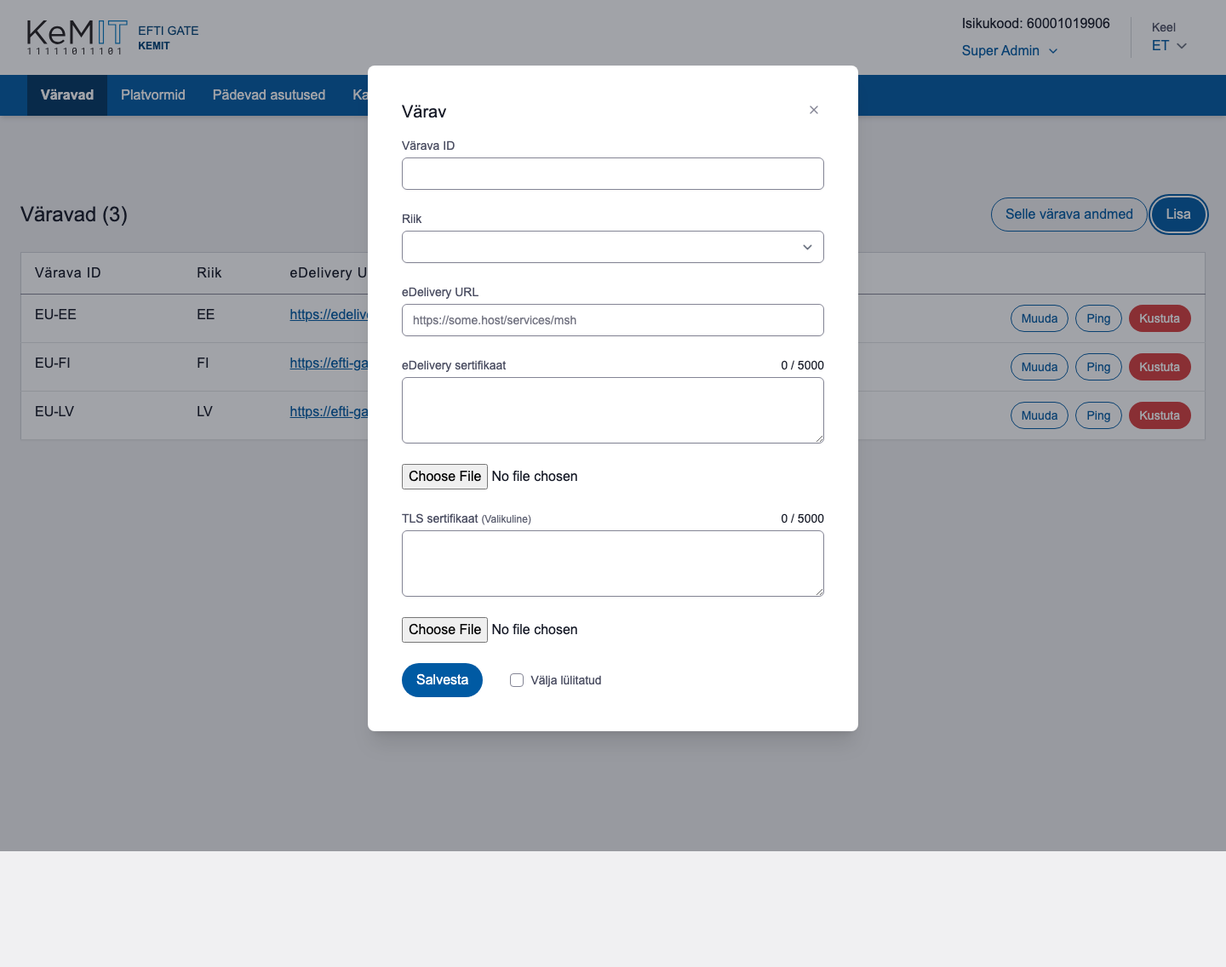
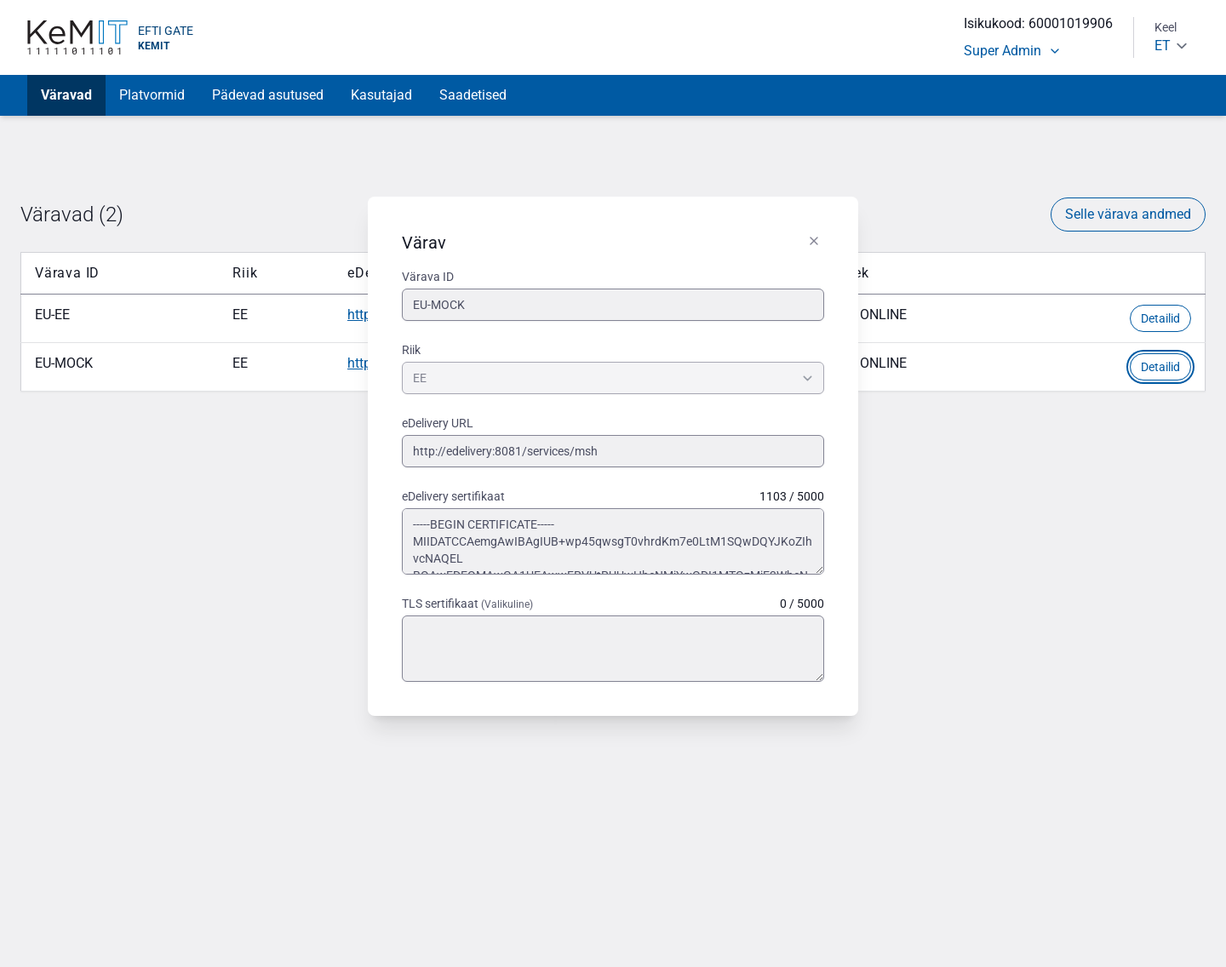
Update user guide and deployment guide for the read-only registry
- user guide: gates/platforms/authorities are read-only views of registry/;
  no add/edit/delete/ping/API-key generation; new screenshots
- deployment guide: secret management overview (§3.0: storage, delivery,
  paired values, rotation, access), Ruuter constants.ini as a mounted Secret
  file, TIM init/introspection secrets, current component versions
- AGENTS.md: constants.ini is mounted, not baked into the ruuter image

diff --git a/docs/specs/deploy/resource-and-secrets-requirements.md b/docs/specs/deploy/resource-and-secrets-requirements.md
@@ -21,10 +21,12 @@ tootmises soovita alustada "Soovituslik prod" veerust ja mõõta reaalse koormus
 |---|---|---|---|---|---|
 | `database` (PostgreSQL 18, `efti` DB) | JAH | 2.0 | 1 GiB | 2 vCPU / 2 GiB + eraldi ketas, **eraldi mõõdetud** ADR-009 jõudlustööga | Stateful — vajab PV/PVC-d ja backupit |
 | `archive-database` (PostgreSQL 18, `efti_archive` DB — saadetiste külmladu, vt issue #143/#56) | JAH | 0.5 | 512 MiB | 0.5 vCPU / 512 MiB + eraldi ketas, kasv sõltub `keepDays` retention-seadest (`purge_archived_consignments.sql`, vaikimisi 2555 päeva) | Stateful, **eraldi instants** kui `database` — vajab oma PV/PVC-d ja backupit; ligipääsetav ainult ReSql `archive` andmeallika kaudu, mitte otse |
-| `resql` (ReSql 0.3.0-alpha) | JAH | — (määramata!) | — (määramata!) | 0.5 vCPU / 512 MiB | max_connections 75 (resql.yaml) — jäta PG max_connections=100 juurde varu teistele klientidele. Kaks andmeallikat: `efti` ja `archive` |
-| `ruuter` (Ruuter 0.9.15-rc, `/efti` + `/xroad`) | JAH | 2.0 | 512 MiB | 1 vCPU / 512 MiB (koormustestitud, vt performance-dok) | — |
+| `resql` (ReSql 0.4.3-alpha) | JAH | — (määramata!) | — (määramata!) | 0.5 vCPU / 512 MiB | max_connections 75 (resql.yaml) — jäta PG max_connections=100 juurde varu teistele klientidele. Kaks andmeallikat: `efti` ja `archive` |
+| `ruuter` (Ruuter 0.12.1-rc, `/efti` + `/xroad` + `/ops`) | JAH | 2.0 | 512 MiB | 1 vCPU / 512 MiB (koormustestitud, vt performance-dok) | — |
 | `ruuter-xroad-mock` (avalik X-Roadi arendaja-mokk, `/developer/**`) | VALIKULINE | 0.25 | 128 MiB | 0.25 vCPU / 128 MiB | Standalone, andmebaasita — vt `docs/developer/x_road_developer_mock.md`. Jäta välja, kui väliseid platvormiarendajaid ei teenindata. |
-| `tim` (Token & Identity Manager 0.3.0-alpha) | JAH | — | — | 0.5 vCPU / 256 MiB | Oma PostgreSQL DB (vt §3) |
+| `tim-init` (ühekordne ettevalmistus) | JAH, ühekordne | — | — | 0.1 vCPU / 64 MiB | Init-container enne `tim`-i: CA-bundle ja (dev-is) JWT võtme genereerimine — vt §3.3 |
+| `registry` (nginx, staatiline register) | JAH | — | — | 0.1 vCPU / 64 MiB | Image sisaldab registrit (ADR-011), avaldatud pordita — vt §3.4 |
+| `tim` (Token & Identity Manager 0.4.1-alpha, distroless) | JAH | — | — | 0.5 vCPU / 256 MiB | Oma PostgreSQL DB (vt §3) |
 | `tim-database` (PostgreSQL 18, `tim` DB) | JAH | — | — | 0.5 vCPU / 512 MiB | Stateful, eraldi instants(dev)/eraldi skeem-või-instants (prod, vali) |
 | `ui` (nginx + Vite/Svelte build) | JAH | — | — | 0.25 vCPU / 128 MiB | Staatiline sisu, väga kerge |
 | `edelivery` (Kotlin/klite, AS4 G2G) | JAH | — | 512 MiB | 0.5 vCPU / 512 MiB | — |
@@ -47,8 +49,11 @@ väärtust:
 
 | Muutuja | Kirjeldus | Dev väärtus |
 |---|---|---|
-| `OWN_GATE_ID` | Selle värava X-Road/eFTI identifikaator | `EU-EE` |
-| `RUUTER_URL`, `RESQL_URL`, `EDELIVERY_URL`, `XML_MAPPER_URL`, `TIM_URL` | Teenustevahelised URL-id (K8s-is Service DNS-nimed) | `http://<service>:<port>` |
+| `OWN_GATE_ID` | Selle värava eFTI identifikaator. Peab olema sama `constants.ini`-s (Ruuter) ja `edelivery`/`xml-mapper` env-is, ning võrduma `registry/gates/<OWN_GATE_ID>.yml` failinime ja AS4 võtmehoidla aliasega (§3.5) | `EU-EE` |
+| `RUUTER_URL`, `RESQL_URL`, `REGISTRY_URL`, `EDELIVERY_URL`, `XML_MAPPER_URL`, `TIM_URL` | Teenustevahelised URL-id (K8s-is Service DNS-nimed) | `http://<service>:<port>` |
+| `REGISTRY_REFRESH_SECONDS` | Kui tihti `edelivery` registrit uuesti loeb | `60` |
+| `DEV_LOGIN_ENABLED` (`constants.ini`) | TARA-vaba arendus-sisselogimine | `true` — **prod-is peab olema `false`** |
+| TIM `public_base_url`, `allowed_redirect_uris` (`docker/tim/tim.yaml`) | TIM-i avalik aadress ja lubatud tagasisuunamise URL-id | `http://localhost:8000/...` — **keskkonnapõhine, prod-domeen tuleb lisada** |
 | `LOGGER_CLASS` | Kotlin-teenuste logimistase/formaat | määramata (vaikimisi) |
 | `VITE_USE_PROD_TARA_URL` | UI build-arg, kas UI viitab reaalsele TARA-le | `true` (image-build juba seab) |
 
@@ -58,6 +63,53 @@ väärtust:
 
 Iga rida: **nimi** → **kes tarbib** (konteiner/env muutuja) → **otstarve** → **dev väärtus (ÄRA
 kasuta prod-is)** → **paigalduse märkus**.
+
+### 3.0 Saladuste haldamise põhimõtted
+
+**Üks allikas, üks tarneviis.** Iga saladus elab keskkonna saladuste hoidlas (AWS SSM Parameter
+Store, prefiks `/efti/<env>/…`; alternatiivina Vault) ja jõuab konteinerisse **ainult**
+`ExternalSecret` → Kubernetes Secret kaudu (§7). Saladust ei panda Helm `values.yaml`-i, Git-i,
+CI-muutujasse ega image'isse. Ainus teadlik erand on platvormide API võtmed registris (§3.4, ADR-011 §5).
+
+**Kolm tarneviisi** — vali iga saladuse jaoks see, mida tarbija oskab lugeda:
+
+| Tarneviis | Saladused | Mida muutmine nõuab |
+|---|---|---|
+| **Env muutuja** (`secretKeyRef`) | `POSTGRES_PASSWORD`, `RESQL_*_PASSWORD`, `LIQUIBASE_COMMAND_PASSWORD`, `AUDIT_SALT`, `TIM_DATABASE_URL`, `TIM_ADMIN_TOKEN`, `TIM_INTROSPECT_RUUTER_SECRET`, `TIM_TARA_CLIENT_SECRET`, `KEYSTORE_PASSWORD`, `INTERNAL_SERVICE_TOKEN` (Kotlin-teenused) | Podi taaskäivitus |
+| **Fail Secretist** (`volumeMount`) | Ruuteri `constants.ini` (§3.2), TIM JWT võti (§3.3), AS4 `own.p12` (§3.5) | Podi taaskäivitus (Ruuter loeb `constants.ini` ainult käivitusel) |
+| **Image'i sees** | Platvormide `apiKey` (`registry/`, §3.4) | `registry` image'i uus build + paigaldus |
+
+**Paarid, mis peavad kokku sobima.** Mitu saladust on kahes kohas korraga — muuda alati mõlemad
+samas paigalduses, muidu katkeb ühendus:
+
+| Väärtus | Kohad |
+|---|---|
+| `efti` DB parool | `database` `POSTGRES_PASSWORD` = `RESQL_EFTI_PASSWORD` = Liquibase parool |
+| `efti_archive` DB parool | `archive-database` `POSTGRES_PASSWORD` = `RESQL_ARCHIVE_PASSWORD` |
+| `TIM_ADMIN_TOKEN` | `tim` env = Ruuteri `constants.ini` |
+| `INTERNAL_SERVICE_TOKEN` | Ruuteri `constants.ini` = `edelivery` env = `xml-mapper` env |
+| `ARCHIVE_OPS_TOKEN` | Ruuteri `constants.ini` = CronManageri `BEARER_OPS_TOKEN` |
+| AS4 sert | `own.p12` (§3.5) = `registry/gates/<OWN_GATE_ID>.yml` `eDeliveryCert` = partnerite registrid |
+
+**Rotatsioon.** Üldreegel: genereeri uus väärtus → kirjuta SSM-i → lase ExternalSecretil Secret
+uuendada (või `kubectl annotate externalsecret … force-sync=$(date +%s)`) → taaskäivita kõik
+tarbijad (`kubectl rollout restart`). Erijuhud:
+
+- **Andmebaasi parool**: muuda esmalt PostgreSQL-is (`ALTER ROLE … PASSWORD`), siis SSM-is, siis
+  taaskäivita `resql` (ja järgmine Liquibase'i jooks kasutab uut). Vahepeal ReSql uusi ühendusi ei loo.
+- **`AUDIT_SALT`**: **ära vaheta** olemasolevas keskkonnas — `audit_log`-i isikukoodide räsid ei ole
+  siis enam vanadega võrreldavad. Vahetus = teadlik otsus koos auditiandmete käsitlusega.
+- **TIM JWT võti**: vahetus logib kõik kasutajad välja (vanad JWT-d ei valideeru).
+- **AS4 võti**: koordineeritud vahetus partneritega — §3.5 "Rotatsioon".
+- **Platvormi API võti**: registrifaili muudatus + `registry` image'i paigaldus; uus võti antakse
+  platvormile turvalist kanalit pidi (§3.4).
+- **Lekke korral**: vaheta kohe, kontrolli `audit_log`-i ja Ruuteri/edelivery logisid lekkeaja kohta;
+  `INTERNAL_SERVICE_TOKEN`-i ja `ARCHIVE_OPS_TOKEN`-i leke tähendab ka võrgupiiride (§6) ülevaatust.
+
+**Ligipääs.** SSM-i `/efti/<env>/` loe- ja kirjutusõigus ainult infra/admin rollil;
+`ExternalSecret`-i teenusekonto saab ainult lugeda. Kubernetes Secretite lugemisõigus ainult
+nimeruumi administraatoril. Kuna `registry` image sisaldab API võtmeid, kehtib sama nõue
+image-registri (Harbor) `registry/images` repositooriumi kohta.
 
 ### 3.1 Peamine andmebaas (PostgreSQL, DB `efti`)
 
@@ -74,8 +126,22 @@ kasuta prod-is)** → **paigalduse märkus**.
 
 | Saladus | Tarbija | Otstarve | Dev väärtus | Märkus |
 |---|---|---|---|---|
-| `INTERNAL_SERVICE_TOKEN` | Ruuter (`constants.ini`, `[#INTERNAL_SERVICE_TOKEN]`); saadetakse `X-Internal-Service-Token` päisena | Jagatud saladus gate-sisesteks kõnedeks (X-Roadi adapter → `efti/api/v1/authority/**`, edaspidi ka G2G sissetulev). **Selle valdaja saab ADMIN-taseme ligipääsu kõigile authority-marsruutidele.** | `dev-internal-service-token-change-me` | **ÄRA UNUSTA**: fail on `docker/ruuter/Dockerfile`-ga image'isse `COPY`-tud, `${ENV}`-asendust `constants.ini`-s EI OLE. Väärtuse muutmiseks tuleb fail muuta ja ruuter image uuesti buildida — miski ei anna hoiatust, kui unustad. Kuni see pole lahendatud (vt ADR-006 avatud küsimused), on ainus kaitse, et `/xroad/**` ja `/efti/api/v1/authority/**` pole avalikult ligipääsetavad — vt §5 |
-| `ARCHIVE_OPS_TOKEN` | Ruuter (`constants.ini`, `[#ARCHIVE_OPS_TOKEN]`), `DSL/Ruuter/ops/.guard.yml`; välise CronManager'i saadetav `Authorization: Bearer`-päring | Ainus autentimine `POST /ops/v1/archive-consignments` ja `POST /ops/v1/purge-archive` peale — literal compare, mitte JWT. **Selle valdaja saab käivitada saadetiste külmladustamise/purge'imise mistahes ajal.** Vt `docs/architecture/infrastructure/append_only_archival.md` | `dev-archive-ops-token-change-me` | Sama probleem mis `INTERNAL_SERVICE_TOKEN`-il: `constants.ini` on image'isse `COPY`-tud, `${ENV}`-asendust ei ole — muutmiseks tuleb ruuter image uuesti buildida. `DSL/Ruuter/ops/` **ei ole nginx'i kaudu proksitud** (vt §6) — ainus kaitse on, et CronManager pöördub otse konteinerivõrgus, mitte ingressi kaudu |
+| `INTERNAL_SERVICE_TOKEN` | Ruuter (`constants.ini`, `[#INTERNAL_SERVICE_TOKEN]`); saadetakse `X-Internal-Service-Token` päisena | Jagatud saladus gate-sisesteks kõnedeks (X-Roadi adapter → `efti/api/v1/authority/**`, edaspidi ka G2G sissetulev). **Selle valdaja saab ADMIN-taseme ligipääsu kõigile authority-marsruutidele.** | `dev-internal-service-token-change-me` | **`constants.ini` ei ole image'is** — compose paigaldab selle käivitusel (`./constants.ini:/app/constants.ini:ro`). `${ENV}`-asendust Ruuteris ei ole, seega tootmises on **kogu `constants.ini` üks Secret-fail** (vt allpool), mitte üksikud env muutujad. Ainus kaitse peale tokeni on,, et `/xroad/**` ja `/efti/api/v1/authority/**` pole avalikult ligipääsetavad — vt §5 |
+| `ARCHIVE_OPS_TOKEN` | Ruuter (`constants.ini`, `[#ARCHIVE_OPS_TOKEN]`), `DSL/Ruuter/ops/.guard.yml`; välise CronManager'i saadetav `Authorization: Bearer`-päring | Ainus autentimine `POST /ops/v1/archive-consignments` ja `POST /ops/v1/purge-archive` peale — literal compare, mitte JWT. **Selle valdaja saab käivitada saadetiste külmladustamise/purge'imise mistahes ajal.** Vt `docs/architecture/infrastructure/append_only_archival.md` | `dev-archive-ops-token-change-me` | Elab samas Secret-failis `constants.ini` (vt allpool); muutmine = Secreti uuendus + ruuteri taaskäivitus. `DSL/Ruuter/ops/` **ei ole nginx'i kaudu proksitud** (vt §6) — ainus kaitse on, et CronManager pöördub otse konteinerivõrgus, mitte ingressi kaudu |
+
+**Ruuteri `constants.ini` tootmises.** Fail sisaldab nii mitte-saladusi (URL-id, `OWN_GATE_ID`,
+`DEV_LOGIN_ENABLED`) kui ka kolme saladust (`TIM_ADMIN_TOKEN`, `INTERNAL_SERVICE_TOKEN`,
+`ARCHIVE_OPS_TOKEN`), seega hoia **tervet faili** Secretina. Repo `constants.ini` on dev-fail ja on
+mallina kasutatav; tootmises:
+
+1. SSM-is `/efti/<env>/ruuter/constants-ini` (kogu faili sisu) **või** kolm eraldi parameetrit, millest
+   `ExternalSecret` `target.template` koostab faili (eelistatud — tokenid saab eraldi vahetada).
+2. Secret `efti-ruuter-constants`, võti `constants.ini`.
+3. Ruuteri Deployment: `volumeMount` `mountPath: /app/constants.ini`, `subPath: constants.ini`,
+   `readOnly: true`.
+4. Kontrolli, et `DEV_LOGIN_ENABLED=false` ja URL-id viitavad klastri Service-nimedele.
+
+`subPath`-mount ei uuene jooksvas podis — pärast Secreti muutmist tee alati `kubectl rollout restart deploy/ruuter`.
 
 ### 3.3 TIM (Token & Identity Manager) — **oma eraldi PostgreSQL andmebaas**
 
@@ -84,7 +150,9 @@ kasuta prod-is)** → **paigalduse märkus**.
 | `TIM_DATABASE_URL` | `tim` teenus | TIM'i oma PG andmebaasi ühendusstring (`postgres://user:pass@host/db`) | `postgres://tim:tim-secret@tim-database:5432/tim` | **See on TEINE andmebaas kui `efti`** — eraldi instants dev-is (`tim-database` teenus), prod-is otsusta kas eraldi instants või sama klastri teine DB |
 | `TIM_ADMIN_TOKEN` | `tim` (`security.admin_token_env`, `tim.yaml`) JA Ruuter (`constants.ini` → `[#TIM_ADMIN_TOKEN]`, saadetakse `X-TIM-Admin-Token` päisena `auth/POST/{callback,logout,dev-login}.yml`-ist) | TIM'i admin-API autentimine | `dev-tim-admin-token` | **Peab kattuma mõlemas kohas** — sama väärtus kahes eri failis/teenuses |
 | `TIM_TARA_CLIENT_ID` / `TIM_TARA_CLIENT_SECRET` | `tim` (`oauth2.providers.tara.client_id_env`/`client_secret_env`) | OIDC klient TARA vastu | `efti` / `efti-secret` (dev-is TARA-Mock vastu) | **Prod: reaalne TARA registreering** (RIA), mitte mock. Vt ka `allowed_redirect_uris` `tim.yaml`-is — prod domeen tuleb sinna lisada |
-| TIM JWT allkirjastamisvõti | `tim` (`jwt.private_key_path: /opt/tim/keys/jwt-private.pem`, RSA, PKCS8 PEM, `key_id: efti-rs-1`) | Kasutajate sessiooni-JWT allkirjastamine | **Dev-is `docker/tim/entrypoint.sh` genereerib selle ISE**, kui faili pole (`openssl genpkey`) | **KRIITILINE PROD-NÕUE**: kui seda ei tehta persistentseks Secretiks/volumeks, genereeritakse iga taaskäivituse peale UUS võti ja kõik olemasolevad sessioonid/JWT-d muutuvad kehtetuks — kõik kasutajad logitakse välja iga podi restardi peale. Genereeri võti üks kord väljaspool konteinerit, pane K8s Secretina, mountida `/opt/tim/keys/jwt-private.pem` peale (samamoodi nagu ljvis2-devops `tim-jwt-key` ExternalSecret) |
+| TIM JWT allkirjastamisvõti | `tim` (`jwt.private_key_path: /opt/tim/keys/jwt-private.pem`, RSA, PKCS8 PEM, `key_id: efti-rs-1`) | Kasutajate sessiooni-JWT allkirjastamine | **Dev-is genereerib selle `tim-init`** (`docker/tim-init/init.sh`, `openssl genpkey`), kui faili köites pole | **KRIITILINE PROD-NÕUE**: ilma püsiva Secretita tekib igal uuel köitel uus võti ja kõik kasutajad logitakse välja. Genereeri üks kord: `openssl genpkey -algorithm RSA -pkeyopt rsa_keygen_bits:2048 -out jwt-private.pem`; SSM-i `/efti/<env>/tim/jwt-private-key` (base64), ExternalSecret → Secret, mount `/opt/tim/keys/jwt-private.pem` (`readOnly`). TIM jookseb UID **65532**-na (distroless): Secreti volume'il `defaultMode: 0400` + pod `securityContext.fsGroup: 65532`, või `0444`. Kui fail on olemas, `tim-init` seda üle ei kirjuta |
+| `TIM_INTROSPECT_RUUTER_SECRET` | `tim` (`introspection.clients[ruuter].client_secret_env`, `tim.yaml`) | Introspektsiooni-kliendi `ruuter` saladus (`required_client_auth: true`) | `dev-introspect-secret` | TIM nõuab väärtust käivitusel. Ruuteri DSL ei kutsu praegu introspektsiooni (`/jwt/userinfo` kasutab ühilduvusrežiimi), seega teist kohta, kuhu sama väärtus panna, hetkel ei ole — aga ära jäta dev-väärtust |
+| TARA CA (`SSL_CERT_FILE`) | `tim` (`/tim-ca-bundle/ca-bundle.pem`) | TARA-Mocki isesigneeritud CA usaldamine | `tim-init` kopeerib TARA-Mocki CA | **Prod (päris TARA):** sea `tim-init`-ile `SKIP_TARA_MOCK_CA=1` või jäta `tara-mock-vault` köide ära; ära sea `SSL_CERT_FILE`-i mock-bundle'ile — päris TARA sert usaldatakse vaike-CA-dega |
 
 ### 3.4 `registry/` — **konfiguratsioon, mis on ühtaegu saladus ja image'i sees**
 

diff --git a/docs/user-guide/src/gates.md b/docs/user-guide/src/gates.md
@@ -1,37 +1,28 @@
 # Väravad
 
-Vaates **Väravad** hallatakse teiste liikmesriikide väravaid ja vaadatakse nende ühenduse olekut.
+Vaade **Väravad** näitab teiste liikmesriikide väravaid, millega Eesti värav eDelivery (AS4) kaudu suhtleb, ning Eesti värava enda andmeid. Vaade on **ainult lugemiseks**: väravaid ei lisata, muudeta ega kustutata haldusliidese kaudu.
 
-![Väravate nimekiri ja tegevused](images/03-gates.png)
+![Väravate nimekiri](images/03-gates.png)
+
+## Kust väravate andmed tulevad?
+
+Väravate register on värava lähtekoodi repositooriumis kaustas `registry/gates/` — üks YAML-fail iga värava kohta. Faili muudetakse muudatustaotluse (pull request) kaudu ning muudatus jõuab väravasse alles uue versiooni paigaldamisega. Nii jääb igast registrimuudatusest jälg (kes, millal, miks) ja see läbib ülevaatuse. Taust: [ADR-011](https://github.com/kemit-ee/efti-gate-ee/blob/dev/docs/architecture/decisions/011-registries-as-signed-config.md), failivorming: [registry/README.md](https://github.com/kemit-ee/efti-gate-ee/blob/dev/registry/README.md).
+
+Kui partnerriigi värav tuleb lisada, selle URL või sertifikaat muutub või see tuleb välja lülitada, pöördu tehnilise meeskonna poole.
 
 ## Oleku tähendus
 
 | Olek | Tähendus |
 |---|---|
-| ONLINE | Viimane ühenduse kontroll õnnestus. |
-| OFFLINE | Ühenduse kontroll ei õnnestunud või väravat ei ole veel edukalt kontrollitud. |
-| KEELATUD | Värav on käsitsi välja lülitatud ja seda ei kasutata. |
+| ONLINE | Värav on kasutusel: sellega vahetatakse sõnumeid ja see on kaasatud piiriülesesse otsingusse. |
+| KEELATUD | Värav on registris välja lülitatud. Sellega ei vahetata sõnumeid ega saadeta sinna otsinguid. |
 
-Oleku värvilise tähise kohal hoides näeb viimase kontrolli aega.
+Olekut määrab ainult registrifail. Automaatset ühenduse kontrolli (ping) ei ole, seega olek ei muutu iseenesest.
 
-## Värava lisamine
+## Värava andmete vaatamine
 
-1. Vajuta **Lisa**.
-2. Sisesta värava ID ja vali riik.
-3. Sisesta eDelivery URL.
-4. Lisa eDelivery ja TLS sertifikaadid PEM-vormingus.
-5. Vajuta **Salvesta**.
+Vajuta rea lõpus **Detailid**. Avanevas aknas on värava ID, riik, eDelivery URL ning eDelivery ja TLS sertifikaadid. Väljad on lukus.
 
-![Värava lisamise vorm](images/04-gate-form.png)
+![Värava andmed (ainult lugemiseks)](images/04-gate-form.png)
 
-Pärast salvestamist proovib süsteem väravat pingida. Ebaõnnestunud ping ei kustuta kirjet; värav kuvatakse olekuga **OFFLINE**.
-
-## Värava muutmine ja kontrollimine
-
-- **Muuda** avab värava andmed. Värava ID-d muuta ei saa.
-- **Ping** käivitab kohe ühenduse kontrolli ja uuendab olekut.
-- Märkeruut **Välja lülitatud** peatab värava kasutamise.
-- **Kustuta** küsib kinnituse ja eemaldab värava aktiivsest vaatest.
-
-Nupp **Selle värava andmed** näitab Eesti värava andmeid, mida on vaja partneri eDelivery pääsupunkti seadistamisel.
-
+Nupp **Selle värava andmed** näitab Eesti värava enda kirjet. Neid andmeid (eDelivery URL ja sertifikaat) on vaja partneri eDelivery pääsupunkti seadistamisel.

diff --git a/docs/user-guide/src/index.md b/docs/user-guide/src/index.md
@@ -1,12 +1,14 @@
 # eFTI värava kasutusjuhend
 
-See juhend kirjeldab eFTI värava haldusliidese igapäevast kasutamist. Haldusliideses saab hallata teiste riikide väravaid, eFTI platvorme, pädevaid asutusi ja kasutajaid ning vaadata väravasse saabunud saadetiste andmeid.
+See juhend kirjeldab eFTI värava haldusliidese igapäevast kasutamist. Haldusliideses saab hallata kasutajaid ja saadetisi ning vaadata teiste riikide väravaid, eFTI platvorme ja pädevaid asutusi.
+
+> **Muudatus (oktoober 2026):** väravate, platvormide ja pädevate asutuste registrid on haldusliideses **ainult lugemiseks**. Neid hallatakse värava lähtekoodi repositooriumis (`registry/`) ning muudatus jõuab väravasse uue versiooni paigaldamisega ([ADR-011](https://github.com/kemit-ee/efti-gate-ee/blob/dev/docs/architecture/decisions/011-registries-as-signed-config.md)). Lisamise, muutmise, kustutamise, pingimise ja API võtme genereerimise nupud on eemaldatud.
 
 Juhend vastab GitHubi `dev` haru kasutajaliidesele. Tehniline dokumentatsioon ja lähtekood on [eFTI Gate’i GitHubi repositooriumis](https://github.com/kemit-ee/efti-gate-ee).
 
 ## Süsteemi ülesehitus
 
-Ruuter töötab ühe runtime’ina, kuid iga Ruuteri projekt on eraldi URL-ruumi, sisendlepingu ja autentimisreeglitega loogiline teenus. Kotlin-teenused tegelevad XML-i teisendamise, väravatevahelise sõnumivahetuse, otsingu hargnemise ja asünkroonsete vastustega. ReSql eraldab API-kihi SQL-ist ning PostgreSQL hoiab registri- ja saadetiste andmeid.
+Ruuter töötab ühe runtime’ina, kuid iga Ruuteri projekt on eraldi URL-ruumi, sisendlepingu ja autentimisreeglitega loogiline teenus. Kotlin-teenused tegelevad XML-i teisendamise, väravatevahelise sõnumivahetuse, otsingu hargnemise ja asünkroonsete vastustega. ReSql eraldab API-kihi SQL-ist ning PostgreSQL hoiab kasutajate ja saadetiste andmeid. Väravate, platvormide ja asutuste registrit serveerib eraldi sisemine `registry` teenus.
 
 ![eFTI värava komponendid ja nendevahelised seosed](images/14-system-architecture.png)
 
@@ -22,8 +24,9 @@ Juhend on mõeldud eFTI värava administraatorile. Kõigil süsteemi lisatud ja 
 |---|---|
 | Värav | Euroopa Liidu liikmesriigi eFTI värav, millega Eesti värav eDelivery kaudu suhtleb. |
 | Platvorm | Sertifitseeritud eFTI platvorm, mis saadab väravale saadetiste identifikaatoreid ja väljastab andmekogumeid. |
-| Pädev asutus | Asutus, kelle töötajad võivad eFTI andmeid pärida. Asutusele määratakse lubatud andmete alamhulgad. |
+| Pädev asutus | Asutus, kes võib X-Roadi kaudu eFTI andmeid pärida. Asutusele määratakse lubatud andmete alamhulgad. |
 | Kasutaja | TARA kaudu autentiv administraator, kes on väravas isikukoodi alusel registreeritud. |
+| Register | Väravate, platvormide ja asutuste andmed repositooriumi kaustas `registry/`; haldusliideses ainult loetav. |
 | Saadetis | Platvormilt väravasse üles laaditud eFTI saadetise kirje koos identifikaatorite ja XML-andmetega. |
 
 ## Haldusliidese jaotised

diff --git a/docs/user-guide/src/platforms.md b/docs/user-guide/src/platforms.md
@@ -1,34 +1,30 @@
 # Platvormid
 
-Vaates **Platvormid** registreeritakse eFTI platvormid, nende ühendusandmed ja API võtmed.
+Vaade **Platvormid** näitab väravaga liidestatud eFTI platvorme ja nende ühendusandmeid. Vaade on **ainult lugemiseks**: platvorme ei lisata, muudeta ega kustutata haldusliidese kaudu ning API võtmeid haldusliideses ei genereerita.
 
 ![Platvormide nimekiri](images/05-platforms.png)
 
-## Platvormi lisamine
+## Kust platvormide andmed tulevad?
 
-1. Vajuta **Lisa**.
-2. Sisesta unikaalne platvormi ID ja baas-URL.
-3. Kui platvorm kasutab eDelivery ühendust, märgi **EDelivery** ning lisa sertifikaadid.
-4. Vajaduse korral lisa HTTP päised võtme ja väärtuse paaridena.
-5. Vajuta **Salvesta**.
+Platvormide register on repositooriumi kaustas `registry/platforms/` — üks YAML-fail platvormi kohta. Uue platvormi liitmine, ühendusandmete muutmine, API võtme vahetus ja platvormi välja lülitamine käivad muudatustaotluse ja uue versiooni paigaldamise kaudu. Pöördu tehnilise meeskonna poole.
 
-![Platvormi lisamise vorm](images/06-platform-form.png)
+## Veerud
 
-Kui baas-URL lõpeb `/msh`, käsitleb vorm ühendust eDelivery ühendusena.
+| Veerg | Tähendus |
+|---|---|
+| Platvormi ID | Platvormi tunnus registris. |
+| Baas URL | Platvormi REST-liidese aadress. |
+| EDelivery | ✅ tähendab, et platvormiga suheldakse eDelivery (AS4) kaudu; muidu REST-i kaudu. |
+| Päised | Väravast platvormi saadetavate lisapäiste arv. |
+| API võti | **Võti seadistatud**, kui platvormil on väravale saatmiseks API võti; **Võtit pole**, kui ei ole. Võtit ennast ei kuvata kunagi. |
+| Olek | **ONLINE** — platvorm saab andmeid saata ja andmepäringud suunatakse sinna. **KEELATUD** — platvorm ei autendi ja andmepäringutele vastatakse, nagu platvormi ei oleks. |
 
-## API võtme loomine
+## Platvormi andmete vaatamine
 
-1. Leia platvormi rida.
-2. Vajuta **Genereeri API võti**.
-3. Kopeeri kuvatud võti kohe turvalisse saladuste haldussüsteemi.
-4. Sulge aken alles pärast võtme talletamist.
+Vajuta rea lõpus **Detailid**. Aknas on baas-URL, sertifikaadid, päised ja API võtme olemasolu. Väljad on lukus.
 
-Täielikku võtit kuvatakse ainult üks kord. Uue võtme genereerimine muudab eelmise võtme kohe kehtetuks.
+![Platvormi andmed (ainult lugemiseks)](images/06-platform-form.png)
 
-## Muud tegevused
+## API võti
 
-- **Muuda** uuendab ühendusandmeid ja päiseid.
-- **Ping** kontrollib platvormi kättesaadavust.
-- **Kustuta** küsib kinnituse ja eemaldab platvormi aktiivsest vaatest.
-- Märkeruut **Välja lülitatud** takistab platvormi kasutamist.
-
+Platvormi API võti on registrifailis ning seda ei saa haldusliidesest vaadata ega uuesti genereerida. Kui võti läheb kaduma või lekib, pöördu tehnilise meeskonna poole: uus võti lisatakse registrisse, värav paigaldatakse uuesti ja võti edastatakse platvormi operaatorile turvalist kanalit pidi.

diff --git a/docs/specs/deploy/README.md b/docs/specs/deploy/README.md
@@ -2,7 +2,7 @@
 
 This directory holds the runtime deployment shape and, now that the implementation is under way, a real inventory of what a deployment needs. Helm charts / K8s manifests still live in the separate `services/efti/devops` repo (see [`resource-and-secrets-requirements.md`](resource-and-secrets-requirements.md) §7).
 
-**[`resource-and-secrets-requirements.md`](resource-and-secrets-requirements.md)** — compiled from the actual running system (`compose.yml`, `constants.ini`, `docker/*`): per-component CPU/memory, every secret (name, consumer, purpose, dev value, deploy gotcha), the two separate PostgreSQL databases, the Liquibase `dev`-context seed data that must not ship to prod, and the TIM JWT-key persistence requirement. Written for whoever does the first production deployment.
+**[`resource-and-secrets-requirements.md`](resource-and-secrets-requirements.md)** — compiled from the actual running system (`compose.yml`, `constants.ini`, `docker/*`): per-component CPU/memory, every secret (name, consumer, purpose, dev value, deploy gotcha), the two separate PostgreSQL databases, the Liquibase `dev`-context seed data that must not ship to prod, the TIM JWT-key persistence requirement, the Ruuter `constants.ini` Secret file, the AS4 keystore (§3.5) and how every secret is stored, delivered and rotated (§3.0). Written for whoever does the first production deployment.
 
 ## What's documented
 
@@ -20,7 +20,7 @@ This directory holds the runtime deployment shape and, now that the implementati
 | `helm/templates/*.yaml` | Implementation phase | Deployment, Service, Ingress, ConfigMap, SealedSecret manifests. |
 | `compose.dev.yml` | Implementation phase | Single-node docker-compose for developer machines (gate + Postgres + Caddy). |
 | `Dockerfile` | Implementation phase | Multi-stage build; non-root runtime user; health-probe-friendly. |
-| Cert rotation runbook | Operator | Manual procedure for AS4 + TLS certificates (no automated rotation in v0). |
+| TLS cert rotation runbook | Operator | Manual procedure for ingress TLS certificates. (AS4 keystore generation, provisioning and rotation: [`resource-and-secrets-requirements.md`](resource-and-secrets-requirements.md) §3.5; general secret rotation: §3.0.) |
 | GitOps wiring | Implementation phase | Pick one of ArgoCD / Flux; not this spec's call. |
 
 ## Why this is deliberately empty

diff --git a/docs/user-guide/src/troubleshooting.md b/docs/user-guide/src/troubleshooting.md
@@ -4,27 +4,26 @@
 
 Kontrolli, kas sinu isikukood on vaates **Kasutajad** registreeritud. Kui kasutaja on olemas, palu teisel administraatoril kontrollida, kas token on tühistatud, ning proovi uuesti autentida.
 
-## Värav või platvorm on OFFLINE
+## Värav või platvorm ei ole nimekirjas või on KEELATUD
 
-1. Kontrolli URL-i ja sertifikaate.
-2. Veendu, et partnerteenus on kättesaadav.
-3. Vajuta **Ping** ja vaata, kas olek muutub.
-4. Kui kontroll ebaõnnestub, jäta kirje alles ning edasta vea aeg ja partneri ID tehnilisele toele.
+Väravate, platvormide ja asutuste registrit haldusliidesest muuta ei saa. Kontrolli, kas kirje on repositooriumi kaustas `registry/` olemas ja kas olek on õige, ning pöördu tehnilise meeskonna poole. Muudatus jõuab väravasse alles uue versiooni paigaldamisega.
 
-## Sertifikaati ei saa salvestada
+## Partnervärav ei vasta
 
-Sertifikaat peab olema PEM-vormingus ja sisaldama plokki `BEGIN CERTIFICATE`. Kopeeri kogu sertifikaat koos algus- ja lõpureaga.
+1. Ava värava **Detailid** ja kontrolli eDelivery URL-i ja sertifikaati.
+2. Veendu partneriga, et nende teenus on kättesaadav ja et neil on Eesti värava kehtiv sertifikaat.
+3. Edasta vea aeg ja partneri värava ID tehnilisele toele.
 
-## API võti läks kaduma
+## API võti läks kaduma või lekkis
 
-Olemasolevat täielikku võtit ei saa uuesti vaadata. Genereeri platvormile uus võti, talleta see turvaliselt ja uuenda platvormi konfiguratsioon. Vana võti lakkab kohe töötamast.
+Võtit ei saa haldusliidesest vaadata ega uuesti genereerida. Teavita tehnilist meeskonda: uus võti lisatakse registrisse, värav paigaldatakse uuesti ja võti edastatakse platvormi operaatorile turvaliselt. Vana võti lakkab kehtimast uue versiooni paigaldamisel.
 
 ## Turvaline kasutamine
 
 - Logi jagatud arvutis alati välja.
 - Hoia API võtmeid ja sertifikaatide privaatvõtmeid saladuste haldussüsteemis.
-- Kontrolli enne kustutamist kirje ID-d.
-- Kasuta **KEELATUD** olekut, kui integratsioon tuleb ajutiselt peatada, kuid konfiguratsioon peab säilima.
+- Kontrolli enne kasutaja või saadetise kustutamist kirje ID-d.
+- Integratsiooni ajutiseks peatamiseks palu registris seada olekuks **KEELATUD** — konfiguratsioon säilib.
 - Anna pädevale asutusele ainult vajalikud andmete alamhulgad.
 
 ## Lisainfo

diff --git a/docs/user-guide/src/authorities.md b/docs/user-guide/src/authorities.md
@@ -1,24 +1,20 @@
 # Pädevad asutused
 
-Vaates **Pädevad asutused** määratakse, millised asutused võivad värava kaudu andmeid küsida ning millistele eFTI andmete alamhulkadele neil on ligipääs.
+Vaade **Pädevad asutused** näitab, millised asutused võivad X-Roadi kaudu värava andmeid pärida ja millistele eFTI andmete alamhulkadele neil on ligipääs. Vaade on **ainult lugemiseks**.
 
 ![Pädevate asutuste nimekiri](images/07-authorities.png)
 
-## Pädeva asutuse lisamine
+## Kust asutuste andmed tulevad?
 
-1. Vajuta **Lisa**.
-2. Sisesta asutuse ID, nimi ja registrikood.
-3. Lisa üks või mitu lubatud alamhulka.
-4. Vajuta **Salvesta**.
+Asutuste register on repositooriumi kaustas `registry/authorities/` — üks YAML-fail asutuse kohta. Asutus on aktiivne seni, kuni tema fail on olemas; eraldi olekut ei ole. Asutuse lisamine, alamhulkade muutmine ja ligipääsu äravõtmine (faili kustutamine) käivad muudatustaotluse ja uue versiooni paigaldamise kaudu. Pöördu tehnilise meeskonna poole.
 
-![Pädeva asutuse vorm ja alamhulgad](images/08-authority-form.png)
+## Asutuse andmete vaatamine
 
-Alamhulkade valik määrab, milliseid andmeosi asutusele väljastatakse. Anna asutusele ainult tööülesannete täitmiseks vajalikud alamhulgad.
+Vajuta rea lõpus **Detailid**. Aknas on asutuse ID, nimi, registrikood ja lubatud alamhulgad. Väljad on lukus.
 
-## Muutmine ja kustutamine
+![Pädeva asutuse andmed (ainult lugemiseks)](images/08-authority-form.png)
 
-- **Muuda** võimaldab nime, registrikoodi ja alamhulki uuendada. Asutuse ID jääb samaks.
-- **Kustuta** küsib kinnituse ja eemaldab asutuse aktiivsest vaatest.
+- **Registrikood** seob asutuse X-Roadi liikmekoodiga. Päring, mille X-Roadi liikmekood ei vasta täpselt ühele asutusele, lükatakse tagasi.
+- **Lubatud alamhulgad** määravad, milliseid andmeosi (EU01–EU07) asutusele väljastatakse. Tühi loend tähendab, et asutusele ei väljastata ühtegi alamhulka.
 
-Pärast õiguste muutmist kontrolli üle kogu alamhulkade loend, mitte ainult lisatud või eemaldatud väärtus.
-
+Õiguste muutmise taotlemisel kontrolli üle kogu alamhulkade loend, mitte ainult lisatav või eemaldatav väärtus. Anna asutusele ainult tööülesannete täitmiseks vajalikud alamhulgad.

diff --git a/AGENTS.md b/AGENTS.md
@@ -342,7 +342,7 @@ The UI API client (`code/ui/src/api/api.ts`) uses `/admin/v1/` as the default pr
 ## Key gotchas
 
 - `constants.ini` uses compose-internal URLs (`http://ruuter:8086`); `.env` uses localhost URLs
-- Constants are `COPY`-ed into the image at build time with **no env substitution**, and `compose.override.yml` syncs only `DSL/` — so changing `constants.ini` or `ruuter.yaml` needs `docker compose up --build ruuter`. A `--watch` restart will not pick it up. (Before the `xroad` project was merged into the main Ruuter this also had to be kept in sync with a second `constants-xroad.ini`; that hazard is gone.)
+- `constants.ini` is **not** in the ruuter image: compose mounts it read-only at `/app/constants.ini`, and Ruuter has **no env substitution**, so it is read once at start — changing it needs `docker compose restart ruuter` (a `--watch` DSL sync does not reload it). It holds `TIM_ADMIN_TOKEN`, `INTERNAL_SERVICE_TOKEN` and `ARCHIVE_OPS_TOKEN`, so production mounts the whole file from a Secret (`docs/specs/deploy/resource-and-secrets-requirements.md` §3.2). `ruuter.yaml` *is* `COPY`-ed, so changing it needs `docker compose up --build ruuter`. (Before the `xroad` project was merged into the main Ruuter this also had to be kept in sync with a second `constants-xroad.ini`; that hazard is gone.)
 - `X-Road-Id` must be hexadecimal 8-4-4-4-12 UUID text: both real and mock guards use a tested RegExp and return 400 `INVALID_REQUEST_ID` for non-hex values. The adapter maps it to typed downstream UUID parameters.
 - Ruuter `http_codes_allow_list` must include any status you return (401, 403, 204 are not default)
 - `internal_requests.block_private_networks: false` in `ruuter.yaml` — auth DSLs call TIM/ReSQL by compose service name
